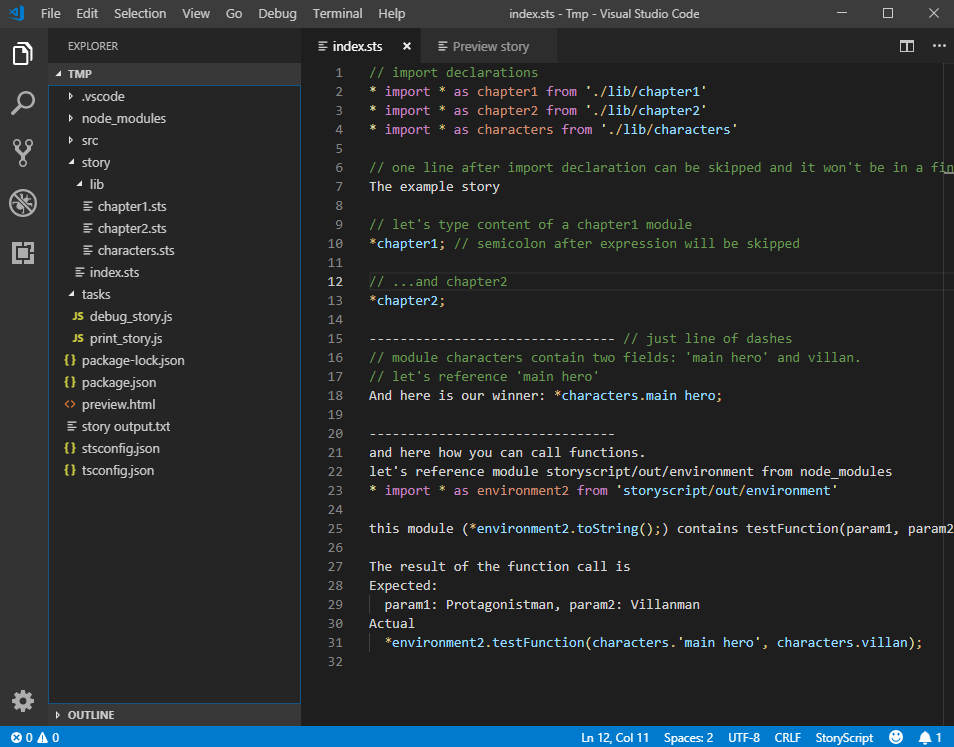
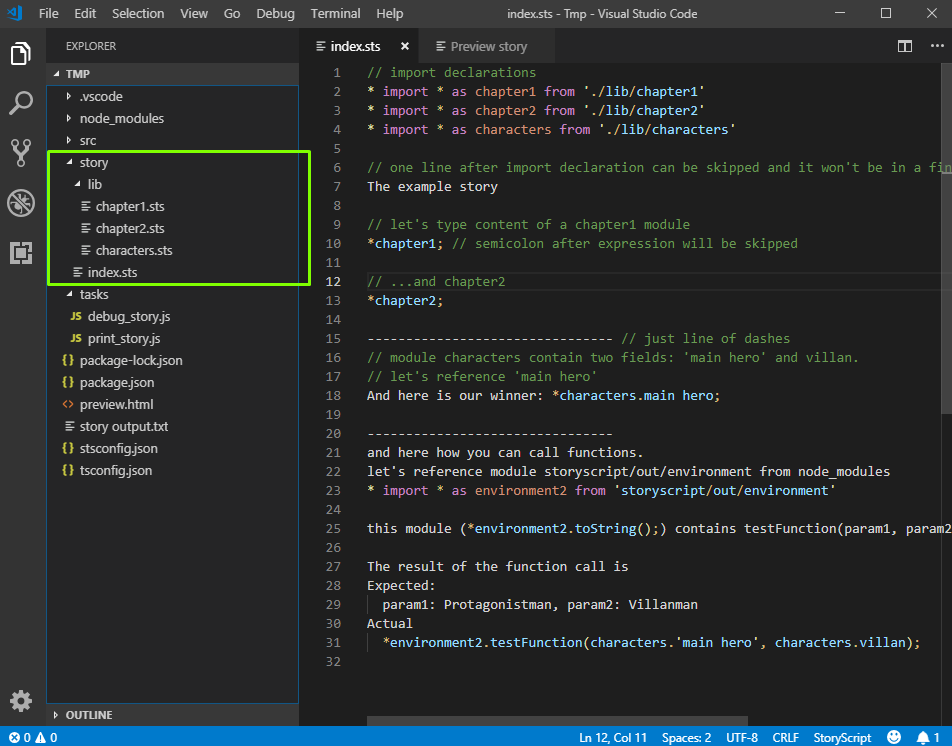
wip

diff --git a/src/instruction.ts b/src/instruction.ts
@@ -89,6 +89,14 @@ __context['__text'] = [...__context['__text'], `${__serializer.serialize( __cont
 ;
 __context['__text'] = [...__context['__text'], ``];
 ;
+__context['__text'] = [...__context['__text'], `Теперь выполним сборку тестового проекта. `];
+;
+__context['__text'] = [...__context['__text'], ``];
+;
+__context['__text'] = [...__context['__text'], `Исходные файлы истории хранятся в папке story`];
+;
+__context['__text'] = [...__context['__text'], `${__serializer.serialize( __context['фото'](`story_source_files.png`, `исходники истории`), '\r\n' )}`];
+;
 __context['__text'] = [...__context['__text'], ``];
 ;
 __context['__text'] = [...__context['__text'], ``];

diff --git a/out/instruction.js b/out/instruction.js
@@ -91,6 +91,14 @@ __context['__text'] = [...__context['__text'], `${__serializer.serialize(__conte
 ;
 __context['__text'] = [...__context['__text'], ``];
 ;
+__context['__text'] = [...__context['__text'], `Теперь выполним сборку тестового проекта. `];
+;
+__context['__text'] = [...__context['__text'], ``];
+;
+__context['__text'] = [...__context['__text'], `Исходные файлы истории хранятся в папке story`];
+;
+__context['__text'] = [...__context['__text'], `${__serializer.serialize(__context['фото'](`story_source_files.png`, `исходники истории`), '\r\n')}`];
+;
 __context['__text'] = [...__context['__text'], ``];
 ;
 __context['__text'] = [...__context['__text'], ``];

diff --git a/Instruction.md b/Instruction.md
@@ -37,6 +37,10 @@ node-модули обновлены
 терминал можно закрыть
 ![закрыть терминал](https://raw.githubusercontent.com/freewebtime/storyscriptOrigins/master/resources/close_terminal.png)
 
+Теперь выполним сборку тестового проекта. 
+
+Исходные файлы истории хранятся в папке story
+![исходники истории](https://raw.githubusercontent.com/freewebtime/storyscriptOrigins/master/resources/story_source_files.png)
 
 
 ## Для всех (база)
